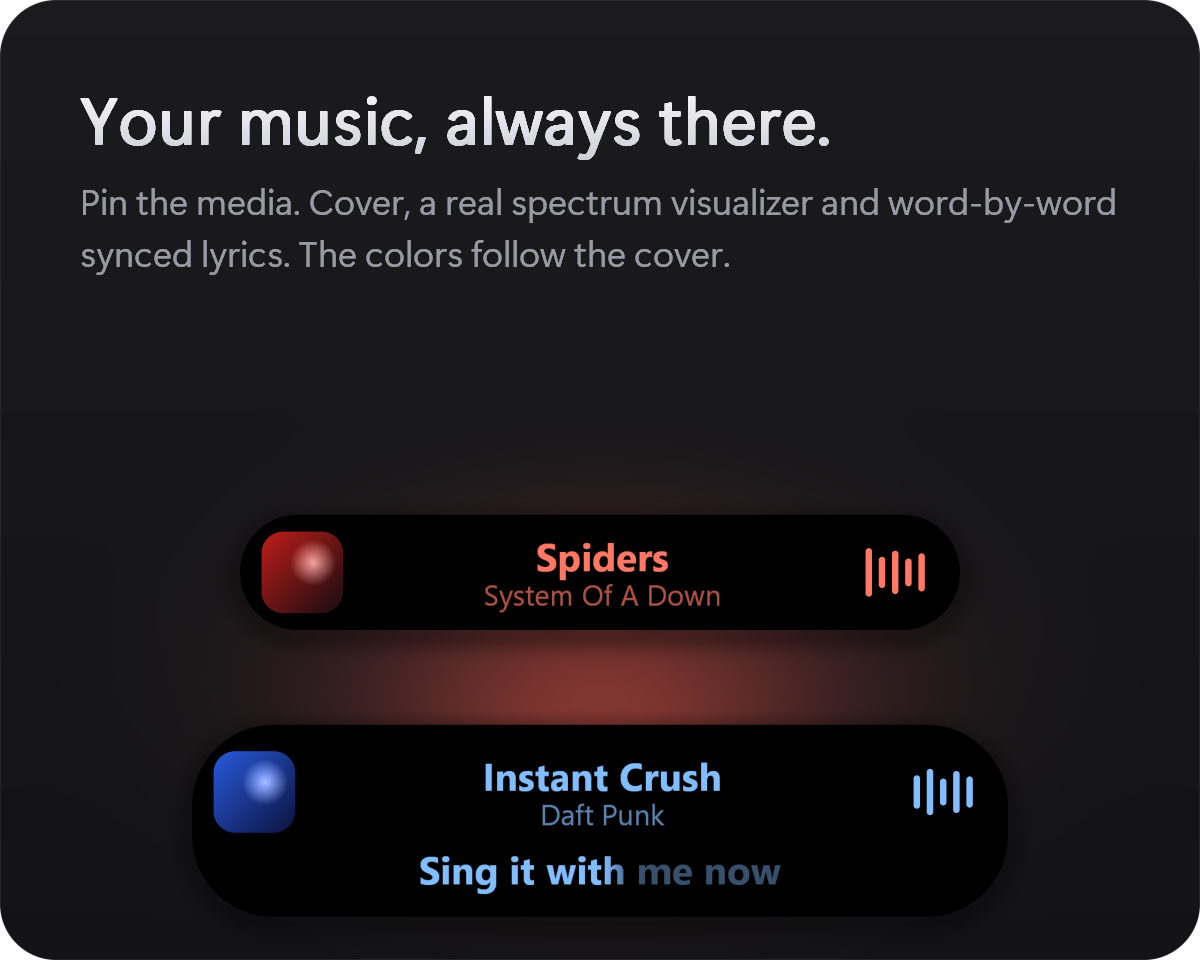
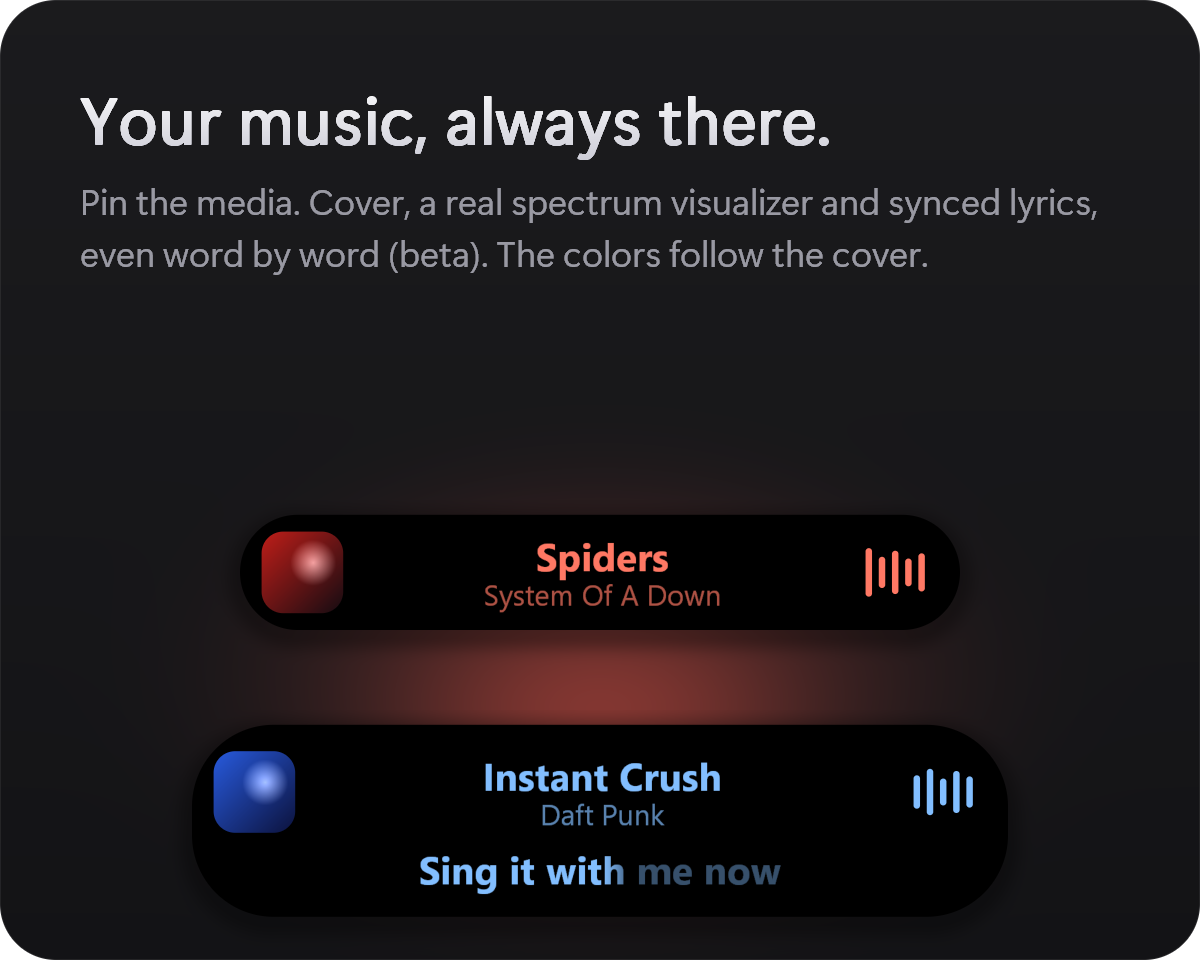
v1.2.0: lyrics split into line and word-by-word (beta), LiriQo source

Changed region(s): [[0.0617, 0.1875, 0.925, 0.2812]]

diff --git a/src/island.rs b/src/island.rs
@@ -519,7 +519,7 @@ impl State {
 
     fn toggle_targets(&self) -> [f32; ui::TOGGLES] {
         let c = &self.cfg;
-        [c.click_sound, c.notify_song, c.notify_device, c.volume_keys, c.low_power, c.upload_sound, c.screenshot, c.pin_media, c.pin_fullscreen, c.pin_lyrics, c.auto_update, self.autostart].map(|b| f32::from(u8::from(b)))
+        [c.click_sound, c.notify_song, c.notify_device, c.volume_keys, c.low_power, c.upload_sound, c.screenshot, c.pin_media, c.pin_fullscreen, c.pin_lyrics, c.lyric_words, c.auto_update, self.autostart].map(|b| f32::from(u8::from(b)))
     }
 
     /// Screen-space rectangle of the shape at its target (for the mouse hook).
@@ -1016,13 +1016,14 @@ unsafe fn lyric_tick(hwnd: HWND) {
     }
     let Some(key) = s.song.as_ref().map(|x| x.key.clone()) else { return };
     let ahead = s.cfg.lyric_ahead_ms as f32 / 1000.0;
+    let words_on = s.cfg.lyric_words; // beta: off, the lines are lit whole
     let line = media::position().zip(crate::lyrics::get(&key)).and_then(|(t, l)| {
         l.line_shown(t + ahead, LYRIC_LEAD).map(|(i, line)| {
             let text = line.text.trim().to_string();
             // where each word starts and ends inside the rasterized line: the sung part grows along it
             let measure = |to: usize| text::measure(&line.text[..to], -56, 700);
             let mut pts = Vec::new();
-            for w in &line.words {
+            for w in line.words.iter().filter(|_| words_on) {
                 let (from, to) = (w.from.min(line.text.len()), w.to.min(line.text.len()));
                 if line.text.is_char_boundary(from) && line.text.is_char_boundary(to) && text.len() == line.text.len() {
                     pts.push((w.start, measure(from).max(pts.last().map_or(0.0, |p: &(f32, f32)| p.1))));
@@ -1327,7 +1328,7 @@ unsafe fn settings_click(hwnd: HWND, screen: POINT) {
             media::set_pin(s.cfg.pin_media);
             pin_refresh(hwnd);
         }
-        ui::Hit::Toggle(10) => {
+        ui::Hit::Toggle(11) => {
             s.cfg.auto_update ^= true;
             if s.cfg.auto_update && install::running_installed() {
                 SetTimer(hwnd, T_UPDATE, 3000, None); // look right away
@@ -1340,6 +1341,11 @@ unsafe fn settings_click(hwnd: HWND, screen: POINT) {
         ui::Hit::Toggle(9) => {
             s.cfg.pin_lyrics ^= true;
             media::set_lyrics(s.cfg.pin_lyrics);
+            lyric_reset(s);
+            pin_refresh(hwnd);
+        }
+        ui::Hit::Toggle(10) => {
+            s.cfg.lyric_words ^= true;
             lyric_reset(s);
             pin_refresh(hwnd);
         }

diff --git a/src/config.rs b/src/config.rs
@@ -24,6 +24,7 @@ pub struct Config {
     pub pin_media: bool,    // the capsule stays up while music plays: cover, title and artist, visualizer
     pub pin_fullscreen: bool, // ... also over full-screen apps
     pub pin_lyrics: bool,     // ... with the synced lyrics (LiriQo, LRCLIB) in place of the title
+    pub lyric_words: bool,    // ... lit up word by word, as sung (beta); off: line by line
     pub auto_update: bool,    // fetch new releases from GitHub by itself
     pub ntfy_server: String,
     pub ntfy_topic: String, // empty = ntfy off
@@ -53,6 +54,7 @@ impl Default for Config {
             pin_media: false,
             pin_fullscreen: false,
             pin_lyrics: true,
+            lyric_words: false,
             auto_update: true,
             ntfy_server: "https://ntfy.sh".into(),
             ntfy_topic: String::new(),
@@ -100,6 +102,7 @@ impl Config {
                 "pin_media" => cfg.pin_media = flag,
                 "pin_fullscreen" => cfg.pin_fullscreen = flag,
                 "pin_lyrics" => cfg.pin_lyrics = flag,
+                "lyric_words" => cfg.lyric_words = flag,
                 "auto_update" => cfg.auto_update = flag,
                 "ntfy_server" if !val.is_empty() => cfg.ntfy_server = val.to_string(),
                 "ntfy_topic" => cfg.ntfy_topic = val.to_string(),
@@ -123,7 +126,8 @@ impl Config {
              hotkey={}\nsettings_hotkey={}\nhistory_hotkey={}\n\
              ; tekerlek / ses tusu basina ses adimi (yuzde)\nstep={}\n\
              ; tekerlek birakildiktan sonra kapanma suresi (ms)\nhide_ms={}\n\
-             notify_song={}\nnotify_device={}\nvolume_keys={}\nclick_sound={}\nlow_power={}\nupload_sound={}\nscreenshot={}\npin_media={}\npin_fullscreen={}\npin_lyrics={}\nauto_update={}\n\
+             notify_song={}\nnotify_device={}\nvolume_keys={}\nclick_sound={}\nlow_power={}\nupload_sound={}\nscreenshot={}\npin_media={}\npin_fullscreen={}\npin_lyrics={}
+lyric_words={}\nauto_update={}\n\
              ; ntfy bildirimleri: topic bos birakilirsa kapali. ntfy_sound: mp3/wav yolu (bos = yerlesik cin sesi).\n\
              ntfy_server={}\nntfy_topic={}\nntfy_token={}\nntfy_sound={}\nntfy_volume={}\n\
              ; sozler sesten ne kadar once gosterilsin (ms; gecikiyorsa artir, erken geliyorsa eksi yap)\nlyric_ahead_ms={}\n\
@@ -143,6 +147,7 @@ impl Config {
             b(self.pin_media),
             b(self.pin_fullscreen),
             b(self.pin_lyrics),
+            b(self.lyric_words),
             b(self.auto_update),
             self.ntfy_server,
             self.ntfy_topic,

diff --git a/src/ui.rs b/src/ui.rs
@@ -24,21 +24,21 @@ pub const CAPSULE_RADIUS: f32 = 34.0;
 
 // ---- settings panel --------------------------------------------------------
 
-pub const ROWS: usize = 21;
+pub const ROWS: usize = 22;
 pub const ROW_H: f32 = 26.0;
 pub const PAD: f32 = 12.0;
 pub const SETTINGS: (f32, f32) = (380.0, PAD * 2.0 + ROWS as f32 * ROW_H);
 
-pub const TOGGLES: usize = 12; // rows 0..11 are on/off switches
-pub const TOGGLE_AUTOSTART: usize = 11;
-pub const ROW_STEP: usize = 12;
-pub const ROW_TOPIC: usize = 13; // ntfy topic, server and token are text fields
-pub const ROW_TOKEN: usize = 15;
-pub const ROW_SOUND: usize = 16; // notification sound file picker
-pub const ROW_VOLUME: usize = 17; // notification sound level
-pub const ROW_LANG: usize = 18; // click cycles auto / English / Türkçe
-pub const ROW_THEME: usize = 19; // click cycles auto / dark / light
-pub const ROW_QUIT: usize = 20;
+pub const TOGGLES: usize = 13; // rows 0..12 are on/off switches
+pub const TOGGLE_AUTOSTART: usize = 12;
+pub const ROW_STEP: usize = 13;
+pub const ROW_TOPIC: usize = 14; // ntfy topic, server and token are text fields
+pub const ROW_TOKEN: usize = 16;
+pub const ROW_SOUND: usize = 17; // notification sound file picker
+pub const ROW_VOLUME: usize = 18; // notification sound level
+pub const ROW_LANG: usize = 19; // click cycles auto / English / Türkçe
+pub const ROW_THEME: usize = 20; // click cycles auto / dark / light
+pub const ROW_QUIT: usize = 21;
 
 // stepper control geometry, measured from the panel's right edge
 pub const STEP_MINUS_X: f32 = 86.0;

diff --git a/src/i18n.rs b/src/i18n.rs
@@ -61,6 +61,7 @@ static EN: Strings = Strings {
         "Pin media",
         "Pin over full-screen apps",
         "Synced lyrics",
+        "Word-by-word lyrics (beta)",
         "Update automatically",
         "Start with Windows",
         "Wheel step (%)",
@@ -122,6 +123,7 @@ static TR: Strings = Strings {
         "Medyayı sabitle",
         "Tam ekranda da sabitle",
         "Senkron şarkı sözleri",
+        "Kelime kelime sözler (beta)",
         "Otomatik güncelle",
         "Windows ile başlat",
         "Tekerlek adımı (%)",

diff --git a/src/demo.rs b/src/demo.rs
@@ -621,7 +621,7 @@ pub fn run(dir: &str) {
     };
     save(
         "card-media",
-        &card("Your music, always there.", "Pin the media. Cover, a real spectrum visualizer and word-by-word synced lyrics. The colors follow the cover.", red, |c, cx, cy| {
+        &card("Your music, always there.", "Pin the media. Cover, a real spectrum visualizer and synced lyrics, even word by word (beta). The colors follow the cover.", red, |c, cx, cy| {
             show(c, &p1, cx, cy - 190.0);
             show(c, &p2, cx, cy + 20.0);
         }),

diff --git a/README.md b/README.md
@@ -66,7 +66,7 @@ RustKnob checks this repository's [releases](https://github.com/thatsdai00/RustK
 |---|---|
 | **Volume** | Double-click the middle mouse button (or `Ctrl+Alt+K`). Scroll: the capsule turns into a round **knob**, and the page behind does not scroll. Volume keys use it instead of Windows' popup. |
 | **Media** | Song changes show title and artist. Mouse back/forward, left click and right click over the capsule control playback; the side buttons work in a wider area around it. |
-| **Pin media** | The capsule stays while music plays, like a Live Activity: cover, title, artist, and a **real spectrum visualizer** that takes the cover's color. Song changes animate. Optional **synced lyrics** ([LiriQo](https://github.com/AlFarrizi-Studio/LiriQo), with [LRCLIB](https://lrclib.net) as backup) appear under the title, **word by word** like Apple Music when the song has word timing. It fades when the pointer comes near, and steps aside for full-screen apps unless you say otherwise. |
+| **Pin media** | The capsule stays while music plays, like a Live Activity: cover, title, artist, and a **real spectrum visualizer** that takes the cover's color. Song changes animate. Optional **synced lyrics** ([LiriQo](https://github.com/AlFarrizi-Studio/LiriQo), with [LRCLIB](https://lrclib.net) as backup) appear under the title, line by line. The **word-by-word** mode (*beta*, its own switch in settings) lights each word as it is sung, like Apple Music, when the song has word timing. It fades when the pointer comes near, and steps aside for full-screen apps unless you say otherwise. |
 | **Uploads** | Drag a file toward the top of the screen and drop it on the capsule. It uploads to fuckingfast.net with progress and speed, and the link is copied. `Ctrl+Alt+H` opens the history. |
 | **Screenshots** | `Win+Shift+S` freezes and dims the screen. Drag a rectangle: it is copied, shrinks into the island, and `Ctrl+V` later tells you where it was pasted. `Esc` or right click cancels. |
 | **Notifications** | Listens to a [ntfy](https://ntfy.sh) topic and shows messages with their own sound and volume. Device changes show the device name. |
@@ -127,7 +127,7 @@ Needs Rust and the Visual Studio C++ build tools. `package.ps1` writes `dist/Rus
 |---|---|
 | **Ses** | Orta tuşa çift tık (veya `Ctrl+Alt+K`), tekerlekle yuvarlak düğmeye dönüşür. |
 | **Medya** | Yeni şarkıda başlık ve sanatçı; fare tuşlarıyla şarkı yönetimi. |
-| **Medyayı sabitle** | Kapak, şarkı, sanatçı ve gerçek spektrum görselleştirici; renkler kapaktan gelir. İsteğe bağlı senkron şarkı sözleri ([LiriQo](https://github.com/AlFarrizi-Studio/LiriQo), yedek olarak [LRCLIB](https://lrclib.net)) başlığın altında, kelime zamanlaması olan şarkılarda Apple Music gibi **kelime kelime** akar. |
+| **Medyayı sabitle** | Kapak, şarkı, sanatçı ve gerçek spektrum görselleştirici; renkler kapaktan gelir. İsteğe bağlı senkron şarkı sözleri ([LiriQo](https://github.com/AlFarrizi-Studio/LiriQo), yedek olarak [LRCLIB](https://lrclib.net)) başlığın altında satır satır akar. Ayarlardaki ayrı **kelime kelime** anahtarı (*beta*), kelime zamanlaması olan şarkılarda her kelimeyi Apple Music gibi söylendikçe yakar. |
 | **Yükleme** | Dosyayı sürükleyip kapsüle bırak: fuckingfast.net'e yüklenir, link kopyalanır (`Ctrl+Alt+H` geçmiş). |
 | **Ekran görüntüsü** | `Win+Shift+S`: seç, panoya kopyalansın, kapsüle uçsun; `Ctrl+V`'de nereye yapıştırıldığını söyler. |
 | **Bildirimler** | [ntfy](https://ntfy.sh) konusunu dinler. |
